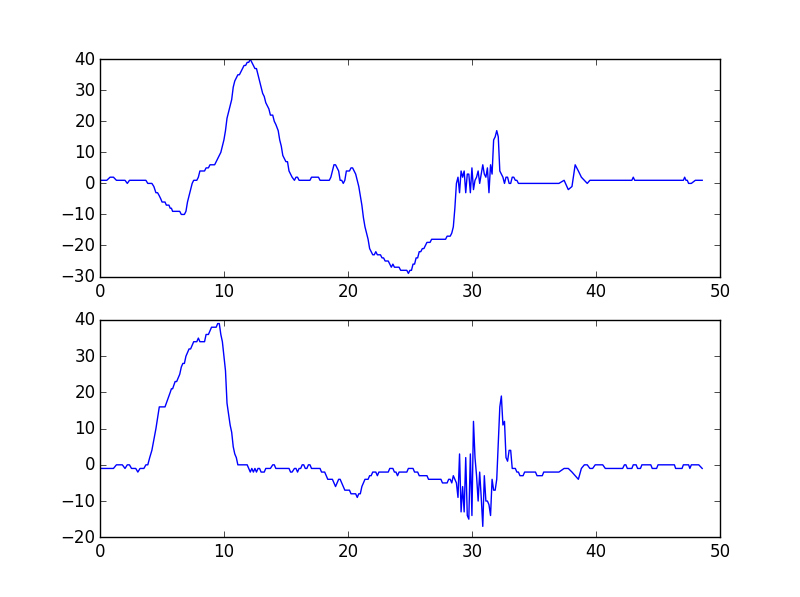
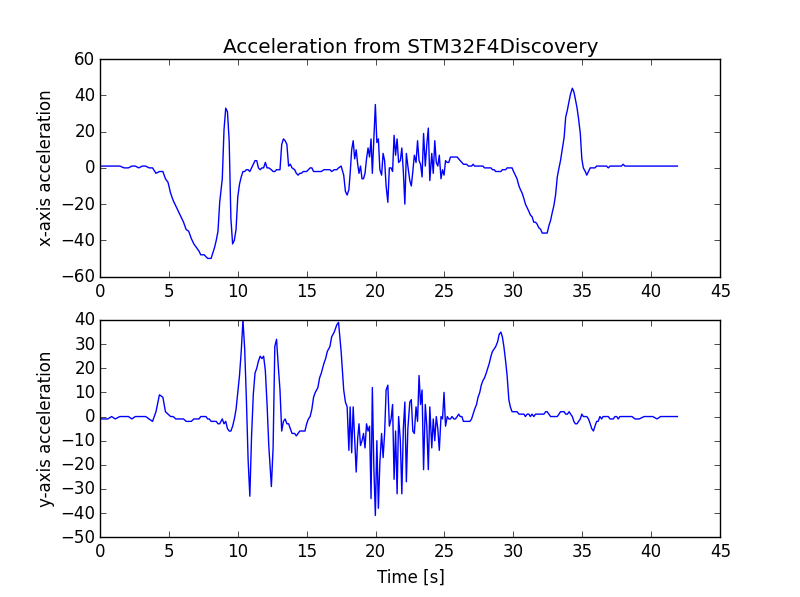
plot labels

diff --git a/pyusb/usbReader.py b/pyusb/usbReader.py
@@ -55,6 +55,11 @@ class UsbLivePlot:
         self.ax1.plot(self.timear, self.xar)
         self.ax2.plot(self.timear, self.yar)
         
+        self.ax1.set_title('Acceleration from STM32F4Discovery')
+        self.ax2.set_xlabel('Time [s]')
+        self.ax1.set_ylabel('x-axis acceleration')
+        self.ax2.set_ylabel('y-axis acceleration')
+        
         
     def findEndpoint(self):
         cfg = self.usbDev.get_active_configuration()
